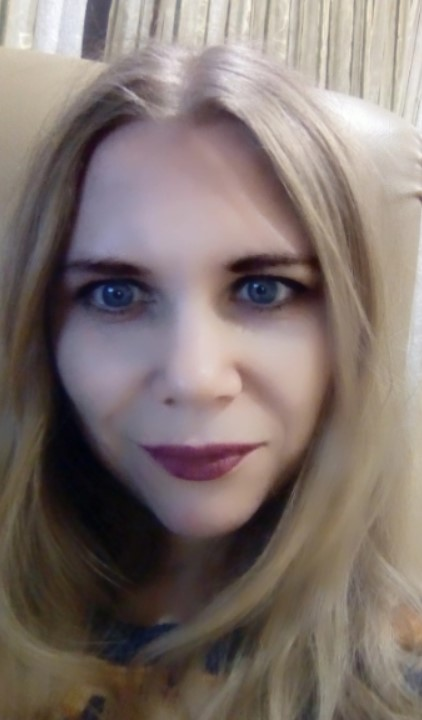
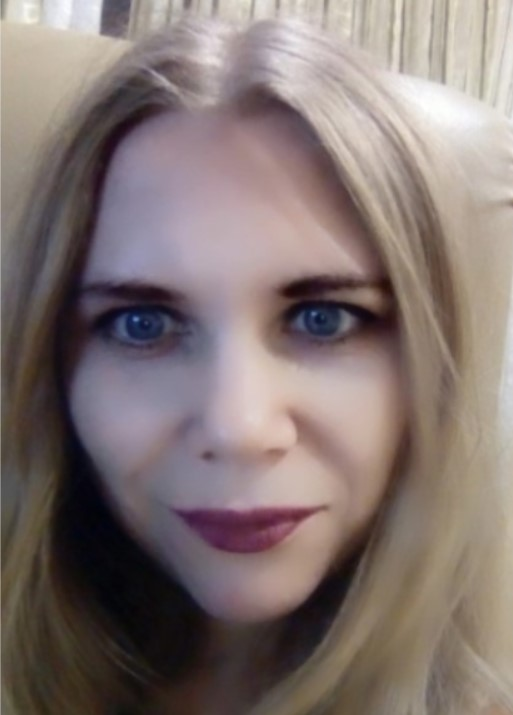
feat: add welcome section styles

diff --git a/styles.css b/styles.css
@@ -30,11 +30,13 @@ body {
 }
 
 h1 {
+    margin: 0 auto;
     width: 55rem;
     color: var(--addition-color);
     font-size: 4.5rem;
     font-weight: 700;
     font-style: normal;
+    text-align: center;
 }
 
 h2 {
@@ -46,6 +48,8 @@ h2 {
 
 p {
     font-size: 3rem;
+    text-indent: 25px;
+    text-align: justify;
 }
 
 ul {
@@ -80,7 +84,7 @@ img {
 /* header styles */
 
 .header {
-    padding: 42px 0px;
+    padding: 42px 0;
     background-color: var(--secondary-color);
     box-shadow: 0 2px 0 #747687;
     position: fixed;
@@ -105,4 +109,37 @@ img {
 .navigation-link>li:nth-child(2) {
     margin-left: 9rem;
     margin-right: 9rem;
+}
+
+/* welcome section styles */
+
+.welcome {
+    padding: 8rem 0;
+    display: flex;
+    justify-content: space-around;
+    align-items: center;
+}
+
+.avatar {
+    width: 30rem;
+    border-radius: 50%;
+    box-shadow: 1px 1px 4px 4px var(--secondary-color);
+}
+
+.welcome-info {
+    padding: 8rem 0;
+    width: 50%;
+}
+
+.welcome-paragraph {
+    padding-top: 40px;
+    font-style: italic;
+}
+
+.welcome-paragraph.colored {
+    color: var(--addition-color);
+    font-size: 4rem;
+    padding-top: 15px;
+    text-indent: inherit;
+    text-align: center;
 }

diff --git a/index.html b/index.html
@@ -28,14 +28,14 @@
         <main class="main">
             <section id="welcome-section" class="welcome">
                 <div class="welcome-photo">
-                    <img src="./assets/pictures/my_photo.jpg" alt="photo of Katsiaryna" width="10%">
+                    <img class="avatar" src="./assets/pictures/my_photo.jpg" alt="photo of Katsiaryna">
                 </div>
                 <div class="welcome-info">
                     <h1 class="welcome-title">Hello, I am Katsiaryna</h1>
-                    <p class="welcome-paragraph">
+                    <p class="welcome-paragraph colored">
                         a web developer
                     </p>
-                    <p class="welcome-paragraph about">
+                    <p class="welcome-paragraph">
                         I am convinced, life is a constant movement that never stop. Therefore, to move forward and
                         evolve every day I try to be better than I was yesterday by learning something new. Web
                         development is an interesting and demanded work there is always something new to learn, to
